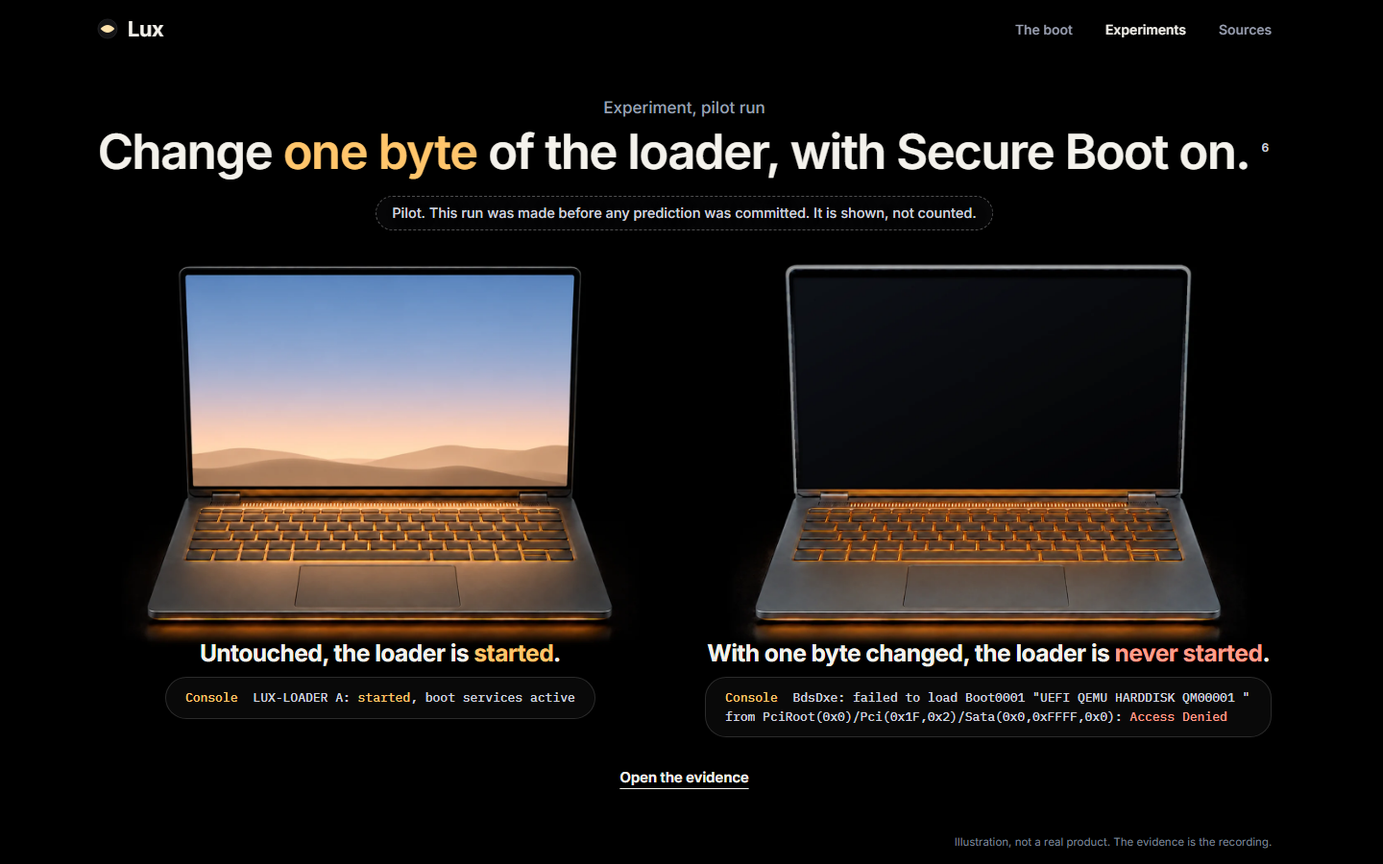
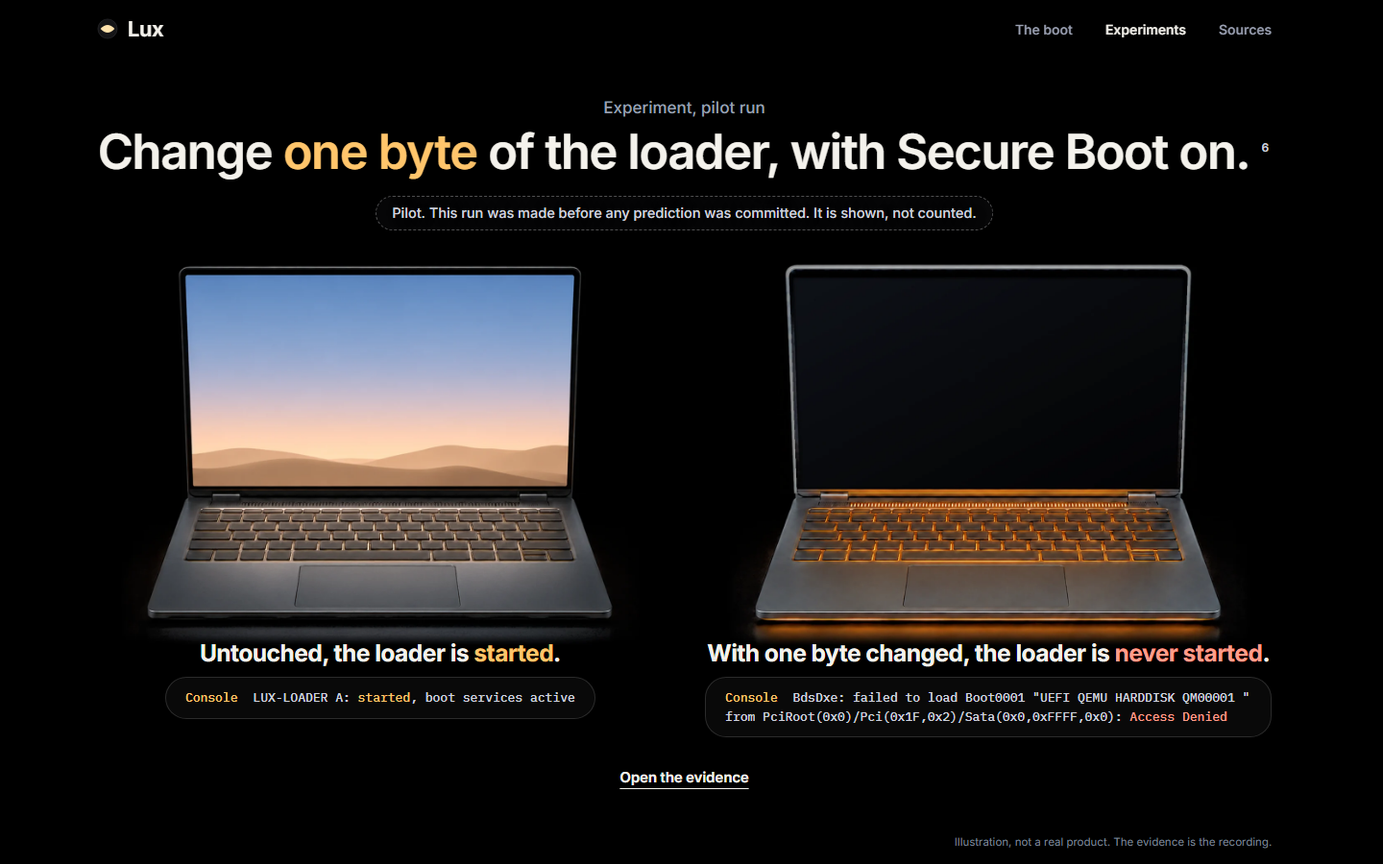
docs: make the counts, the verification record, the asset notes and the screenshots true of the final site, and name the author

Changed region(s): [[0.0938, 0.56, 0.4375, 0.7467]]

diff --git a/docs/VERIFICATION.md b/docs/VERIFICATION.md
@@ -61,12 +61,12 @@ The untested parts of rows 1, 2, 5, 7 and 8 are carried into the limits of the R
 | **Recorder: tests of the committed evidence** (recordings, comparisons, scores, predictions) | The published files, not only the code, must still follow from each other | 48 |
 | **Recorder: integration with real `git`** | The prediction gate sends real git commands; a fake only proves the answers | 3 |
 | **Recorder: integration with a real virtual machine** | Only a real boot shows that a normal run repeats on this machine | 6, skipped unless `LUX_VM_TESTS=1` |
-| **Site: unit tests of the model** (steps, experiment state, addresses, panel keys, the mark) | Complete state per step and the state of an experiment are plain data, testable without drawing anything | 90 |
+| **Site: unit tests of the model** (steps, experiment state, addresses, panel keys, the mark) | Complete state per step and the state of an experiment are plain data, testable without drawing anything | 92 |
 | **Site: the content and the recordings as the site loads them** | Guards the site's own reading of the files | 45 |
 | **Site: pages rendered to HTML, with no browser**, and the stylesheet read as text | Proves that a page shows what the content and the files hold, and no more | 198 |
 | **Browser-level, automated** | None. Motion, layout and focus need a real window; they were checked by a scripted drive and by eye, outside the test suite | 0 |
 
-Recorder total 373 (25 in `test_capture.py`, 48 in `test_check_content.py`, 28 in `test_committed_recordings.py`, 41 in `test_compare_prediction.py`, 65 in `test_counted_set.py`, 32 in `test_eventlog_gate.py`, 6 in `test_integration_vm.py`, 5 in `test_recorded_bytes.py`, 65 in `test_session_runner.py`, 50 in `test_staging.py`, 8 in `test_story_and_repository.py`). The split of the first three rows is by test class: `test_check_content.py` is the second row; `test_committed_recordings.py`, `test_recorded_bytes.py` and the classes `CommittedPredictions` and `TwoEntryNormalRuns` of `test_counted_set.py` are the third. Site total 333 in nine files.
+Recorder total 373 (25 in `test_capture.py`, 48 in `test_check_content.py`, 28 in `test_committed_recordings.py`, 41 in `test_compare_prediction.py`, 65 in `test_counted_set.py`, 32 in `test_eventlog_gate.py`, 6 in `test_integration_vm.py`, 5 in `test_recorded_bytes.py`, 65 in `test_session_runner.py`, 50 in `test_staging.py`, 8 in `test_story_and_repository.py`). The split of the first three rows is by test class: `test_check_content.py` is the second row; `test_committed_recordings.py`, `test_recorded_bytes.py` and the classes `CommittedPredictions` and `TwoEntryNormalRuns` of `test_counted_set.py` are the third. Site total 335 in nine files.
 
 Coverage was not measured as a number. The mutation checks do the work a coverage figure cannot: nine rules were broken on purpose on the final code, seven in the recorder, one in the content check and one in the site, and each break failed at least two tests (`MUTATION_CHECKS.md`).
 
@@ -84,18 +84,18 @@ Run on that commit, on one machine: Windows 11 with Python 3.12.10 and Node.js 2
 | Site build | `npm run build` | type check passed, `built in` under one second, one warning: a chunk larger than 500 kB |
 | Site format | `npm run format:check` | `All matched files use Prettier code style!` |
 
-The run with the virtual machine boots the plain normal run twice and the two-entry normal run once, and took about two minutes for the whole suite. No counted experiment and no pilot was booted for this document. The same commands were run again after the last change to the documents of that day and gave the same summary lines, apart from the times. The counts in this table are those of that commit: five recorder tests, two site tests and three claims were added afterwards.
+The run with the virtual machine boots the plain normal run twice and the two-entry normal run once, and took about two minutes for the whole suite. No counted experiment and no pilot was booted for this document. The same commands were run again after the last change to the documents of that day and gave the same summary lines, apart from the times. The counts in this table are those of that commit: five recorder tests, four site tests and three claims were added afterwards.
 
 ### Last results
 
-Run after the last change to the site and the content (section 9), on the same machine, on Windows only:
+Run after the last change to the site and the content (sections 9 and 10), on the same machine, on Windows only:
 
 | Check | Command | Summary line |
 |---|---|---|
-| Recorder unit tests, Windows | `python -m unittest discover -s recorder/tests -t .` | `Ran 373 tests in 26.215s`, `OK (skipped=6)` |
+| Recorder unit tests, Windows | `python -m unittest discover -s recorder/tests -t .` | `Ran 373 tests in 35.466s`, `OK (skipped=6)` |
 | Content check | `python scripts/check_content.py` | `content check: 5 files, 28 screens, 357 claims, 85 claims uefi-required, 28 claims uefi-platform, 21 claims tcg-unread, 38 claims this-firmware, 170 claims recording, 15 claims general, 14 recordings, 59 glossary entries`, `content check: passed, no problems` |
-| Site tests | `npm test` | `Test Files  9 passed (9)`, `Tests  333 passed (333)` |
-| Site build | `npm run build` | type check passed, one script of 939.01 kB (gzip 186.12 kB), `built in` under one second, one warning: a chunk larger than 500 kB |
+| Site tests | `npm test` | `Test Files  9 passed (9)`, `Tests  335 passed (335)` |
+| Site build | `npm run build` | type check passed, one script of 939.24 kB (gzip 186.22 kB), `built in` under one second, one warning: a chunk larger than 500 kB |
 | Site format | `npm run format:check` | `All matched files use Prettier code style!` |
 
 **Not repeated after that change:** the recorder's unit tests under WSL and the suite with the virtual machine. The five tests added since read committed files only and boot nothing, so the README's expected `Ran 373 tests` for the suite with the virtual machine is the same test discovery with the six booting tests included; it was not run. The fresh-clone runs (`FRESH_CLONE_RUN.md`) and the mutation checks (`MUTATION_CHECKS.md`) were made before that change and were not repeated; each file states the counts of its own commit.
@@ -104,9 +104,10 @@ Run after the last change to the site and the content (section 9), on the same m
 
 | What | How | By eye or by script |
 |---|---|---|
-| All 22 steps of the story, the experiments and sources pages section by section, the strip of seven stops, the still page, and six evidence panels, at 1440 x 900; the steps, the pages and the strip also at 390 x 844 | Screenshots of the running site in a headless Chromium-based browser, read one by one. The phone width was taken through a frame of that width | **By eye**, on screenshots. Three of them are in `docs/images/` |
+| All 22 steps of the story, the experiments and sources pages section by section, the strip of seven stops, the still page, and six evidence panels, at 1440 x 900; the steps, the pages and the strip also at 390 x 844 | Screenshots of the running site in a headless Chromium-based browser, read one by one. The phone width was taken through a frame of that width | **By eye**, on screenshots. Three of them were in `docs/images/` at the time |
 | The same 22 steps, both pages from top to bottom, and the evidence panel of every step, in true windows of 375 x 812 and 430 x 932; the navigation alone at twelve widths from 280 to 761 px; twelve steps at 375 x 667 | A headless Chromium-based browser driven through its debugging port, with the window size set there and no frame. The script also measured each page for content wider than the window and found none | **By eye**, on screenshots, and by measurement. The script and the screenshots are not in the repository |
-| After the last change to the look (section 9): all 22 steps, the first screen of the experiments and sources pages and of the still page at 1440 x 900; steps 0, 12 and 21 in a true window of 390 x 844; the last step at 1180 x 820; the experiment screen of the experiments page | Screenshots of the running site in a headless Chromium-based browser, read one by one; the narrow and the 1180 x 820 windows through the debugging port, which also measured each page for content wider than the window and found none | **By eye**, on screenshots. Three of them replace the pictures in `docs/images/` |
+| After the last change to the look (section 9): all 22 steps, the first screen of the experiments and sources pages and of the still page at 1440 x 900; steps 0, 12 and 21 in a true window of 390 x 844; the last step at 1180 x 820; the experiment screen of the experiments page | Screenshots of the running site in a headless Chromium-based browser, read one by one; the narrow and the 1180 x 820 windows through the debugging port, which also measured each page for content wider than the window and found none | **By eye**, on screenshots. Three of them were the pictures in `docs/images/` until the final set |
+| After the final changes (section 10): all 22 steps, the first screen of the experiments page, its two-run screen and its counted set, the first screen of the sources page and its glossary, the first screen of the still page, the strip of seven stops, and the evidence panels of step 12 and of the two-run screen, at 1440 x 900; the opening and the last step also at 375 x 812, 390 x 844, 430 x 932, 1280 x 720 and 1024 x 768 | Screenshots of the running site in a headless Chromium-based browser at a device pixel ratio of 1, read one by one; the scrolled sections and the other window sizes through the debugging port, which measured the opening and the last step for content wider than the window and found none | **By eye**, on screenshots. Three of them are the pictures in `docs/images/` |
 | Brightness of the machine before power | Mean luminance of regions of the screenshots and of the pictures, printed by `site/tools/make_assets.py` and recorded in `site/ASSETS.md` | By script, after a judgement by eye that the first version was too dark |
 | Scrolling: Space and Shift with Space, Page Down and Page Up through all 22 steps, a jump to `#step-12`, the strip after the last step, reduced motion giving the still page | The running site driven in real time through the browser's debugging port | **By script only** |
 | The evidence panel: Enter and Space open it, Tab stays inside it from a control and from the claims heading, Escape closes it, focus returns to the opener, the page does not move | The same scripted drive | **By script only** |
@@ -114,8 +115,8 @@ Run after the last change to the site and the content (section 9), on the same m
 | The way on to the earlier site | The running site in a browser: the last step holds a link with the address `https://lejie710.github.io/nox/` | By script. The link was not followed |
 | The sentence under the two numbers, and the note on a prediction's date | The running site at 1024 x 768 and 375 x 812: the positions of the parts of the first experiments screen were measured, and one phone screenshot was read | By script and by eye. On the phone size the first screen is now 36 px taller than the window |
 | Keyboard and focus on the experiments and sources pages (focus moving to the heading on a change of page, the glossary filter) | Tested as rendered HTML only | **Not driven in a real browser** |
-| The story scrolled by a person's hand on a real screen in a lit room | | **Not confirmed in this document** |
-| Firefox, Safari, a physical phone, a phone held sideways, a window under 600 px tall, a screen reader | | **Not checked** |
+| The story scrolled by a person's hand on a real screen | The author scrolled the site in his own browser on the day of the final changes, and those changes answer what he saw | **By the author only.** No second person, and nothing about it was measured |
+| Firefox, Safari, a physical phone, a phone held sideways, a window under 600 px tall, a screen with a device pixel ratio above 1, a screen reader | | **Not checked** |
 | The paraphrases of UEFI 2.11 | Each read against the section and PDF page it cites | By reading; no script can check it |
 | The link-preview tags (section 7) | The built `dist/index.html` read, and one build made with a placeholder address | By script. No preview service was asked |
 
@@ -153,6 +154,7 @@ These were found by review, by a test or by driving the site. None was planted. 
 | 19 | The two headline numbers stood on the experiments page with their caveat one press away | Review of the page against the README | The sentence that the rows are not independent stands directly under the numbers, from the content | A16 |
 | 20 | The larger laptop made for the last screen was also drawn on the experiment screen and the screen before the last, where the light under its keys is not turned down. On the experiment screen its lid sat 11 px under the pilot label and its base ran 9 px into a two-line evidence line. In a window of about 1180 x 820 the larger laptop also touched a two-line evidence line on the last screen | Review of screenshots | The laptop is enlarged on the last screen only, and only in a window at least three wide to two high and 800 px high (commit `2ebfe4b`) | No test: a judgement of the eye. Screenshots of steps 15, 20 and 21 at 1440 x 900 and of step 21 at 1180 x 820 were read after the fix |
 | 21 | When stop 5 began to state the stored boot order from the raw log (0000 first), the limit "why option 0000 was not started" was dropped, although the log still does not show why the console names 0001. The same stop said "the recording shows" bytes that only the raw log holds | Review of the facts against the raw log | The limit is stated again in the form the log supports, and the sentence names the raw event log (commit `cf1fc46`) | Read by hand. `test_recorded_bytes.py` guards the byte values, not the wording of a limit |
+| 22 | A page opened at `/#overview`, below the story, showed the opening in the last rows of the pinned stage above the strip: the title cut off under the navigation and across the name beside the mark. No marker lies on the window's middle line there, so the step kept its first value | Reading the final screenshots | On the first report of the markers, when none is on the middle line, the step is the last one whose marker starts above it | `model/scene.test.ts`, "stepPassed" (two tests). The landing was then driven in a headless browser: `/#overview` shows the last step, `/#step-12` step 12, `/` the opening |
 
 ### Open, known, not fixed
 
@@ -179,12 +181,13 @@ These were found by review, by a test or by driving the site. None was planted. 
 - **The hosted workflow.** `.github/workflows/check.yml` has never run on a hosted runner. It uses the official checkout, Python and Node.js setup actions by major version, and every command in it passes locally on Windows and in WSL. A hosted runner may still differ: another Node.js or npm patch version, `npm ci` on another system than the one it succeeded on, another git version for the three tests that use real git. Whether the three setup actions resolve at the versions the file names was not checked, because nothing was fetched.
 - **Publication.** Nothing is published. There is no public address, so no deployed page has been opened, and the previews of a pasted link have not been seen (section 7).
 - **Any second machine.** The recordings were reproduced only on the machine that made them, in every run from a new clone as well. The recorder refuses another firmware package; what another QEMU version does was not tried.
-- **Any browser but one**, any real phone, and a screen reader (section 4).
+- **Any browser but one**, any real phone, a screen with a device pixel ratio above 1, and a screen reader (section 4).
+- **Motion.** It was judged by the timing a script read and by the author's own scrolling. Frame rate was not measured, and no second person has scrolled the story (section 10).
 - **Repeatability of a changed run.** Each counted experiment was booted once, by rule.
 - **What a Trusted Computing Group document or the Platform Initialization specification requires.** Neither was read. No statement on the site or in the results claims a requirement from either.
 - **That no counted configuration was ever booted before its prediction.** The history and one audit of the work directory say so; no mechanism proves it, and the audit's script and output are not in the repository (`RESULTS.md`, "Checked a second time", marks the rows a reader cannot repeat).
 
-**Assessment.** The evidence chain from a boot to a number on the page is implemented and tested end to end without a virtual machine, and the one link that needs a real boot, that a normal run repeats, was run again and holds. The result is honest only together with its caveats: four counted experiments, one run each, rows that are not independent, one firmware build in a virtual machine with a software TPM, and two documents unread. With those stated beside the numbers, as the README and the experiments page now do, the project is ready to be shown as a private repository. Before it is made public, three things remain: the hosted workflow must run green once, a licence must be chosen, and a person should scroll the story once by hand in an ordinary browser.
+**Assessment.** The evidence chain from a boot to a number on the page is implemented and tested end to end without a virtual machine, and the one link that needs a real boot, that a normal run repeats, was run again and holds. The result is honest only together with its caveats: four counted experiments, one run each, rows that are not independent, one firmware build in a virtual machine with a software TPM, and two documents unread. With those stated beside the numbers, as the README and the experiments page now do, the project is ready to be shown as a private repository. Before it is made public, two things remain: the hosted workflow must run green once, and a licence must be chosen. The author has scrolled the story by hand; nobody else has.
 
 ## 7. Link-preview metadata
 
@@ -245,7 +248,7 @@ Made on 2026-11-15 in nine commits, `5cf4d0a` to `cf1fc46`, after every run and 
 
 **Checked.** The checks of section 3, "Last results". The site's test that nothing but `transform` and `opacity` moves still passes, and no existing test was edited. The screenshots of section 4, first row. During the change, steps 0, 2, 6, 12, 15, 19, 20 and 21 were also read at 1280 x 720 after each commit; in a review after it, the last step at 1366 x 768 and 1920 x 1080.
 
-**Not verified, or known and left.**
+**Not verified, or known and left.** Two points of this list were overtaken by section 10: the shade is gone, and the author has scrolled the story.
 
 - **Motion was not seen by eye.** That the statement is readable sooner (about 0.6 s after a step change, before about 1.15 s) was measured by reading the computed opacity at sampled times in a headless browser. Frame rate was not measured. A person has still not scrolled the story by hand (section 4).
 - **For about 0.4 s after a step change** the evidence line and the control still seen are those of the step being left, and that control does not respond; the control of the new step is in place under it. Keyboard reach and the return of focus were not driven again in a browser; the panel's code and its tests are unchanged.
@@ -255,3 +258,26 @@ Made on 2026-11-15 in nine commits, `5cf4d0a` to `cf1fc46`, after every run and 
 - **The section titles of the experiments and sources pages and the title of the evidence panel** keep their heavier weight; only the statements changed.
 - **One claim at stop 5** names the first four bytes of a boot option "attributes" and its text "description" under the basis "recording". The numbers are in the bytes; the two names are a reading of the bytes against the UEFI layout, for which no citation was added. The sentence says "this page calls".
 - **The suite with the virtual machine, the unit tests under WSL, the fresh-clone runs and the mutation checks were not repeated** after this change (section 3).
+
+## 10. The final changes
+
+Made on 2026-11-15 after section 9, in the commits `99c9865`, `40137be` and `a337644` and the commit that added this section. No experiment was run again, and no recording, prediction or score was touched.
+
+| Change | Where |
+|---|---|
+| The last screen fades in a second generated picture of the lit laptop, in which the light under the keys is turned down. The shade that section 9 describes was removed from the stylesheet. The picture a link is previewed with was made again from the same second picture | `site/src/assets/laptop-awake.webp`, `site/public/og.jpg`, `site/tools/make_assets.py`, `site/src/styles/lux.css`, `site/ASSETS.md` |
+| The opening's invitation to scroll names the author: "An explainer of the UEFI boot by Le Jie Tan, from public specifications and one recorded boot", the same place and form as on the earlier site | `content/story-a.json` |
+| A page opened below the story shows the last step in the stage's last rows (defect 22) | `site/src/stage/useStepScroll.ts`, `stepPassed` in `site/src/model/scene.ts`, two tests |
+
+**Checked.** The checks of section 3, "Last results", all run after the last of these changes. The screenshots of section 4, the row "After the final changes": every one was opened and read, and none showed overlap, clipped text or a line past the window's edge. The three pictures in `docs/images/` are from that set.
+
+**Still unverified.**
+
+- **Motion.** Judged by the timing a script read (section 9) and by the author's own scrolling. Frame rate was not measured, the fade of the new picture on the last screen was seen only as its end state on a screenshot, and no second person has scrolled the story.
+- **Other browsers.** One Chromium-based browser only. Firefox and Safari were not opened.
+- **A physical phone.** The narrow sizes are windows of a desktop browser, not a device, and none was held sideways.
+- **A screen reader.** None was run. The spoken status line and the labels are tested as rendered HTML only.
+- **A device pixel ratio above 1.** Every screenshot was taken at a ratio of 1, so how the pictures and the hairlines look on a dense screen was not seen.
+- **The hosted check workflow.** `.github/workflows/check.yml` has never run (section 6).
+- **Not repeated after these changes:** the evidence panel's keys and focus in a browser, the pages and panels from top to bottom at the narrow sizes (only the opening and the last step were taken again there), the recorder's unit tests under WSL, the suite with the virtual machine, the fresh-clone runs and the mutation checks.
+- **The brightness of the new picture of the lit laptop** was not written into `site/ASSETS.md`; its table still holds the values of the first picture.

diff --git a/site/ASSETS.md b/site/ASSETS.md
@@ -4,18 +4,18 @@ Every picture on the site is an illustration of a fictional laptop and a fiction
 
 ## How each file was made
 
-| File                            | What it is                                                             | How it was made                                                                                                                                                                                                                        |
-| ------------------------------- | ---------------------------------------------------------------------- | -------------------------------------------------------------------------------------------------------------------------------------------------------------------------------------------------------------------------------------- |
-| `src/assets/laptop-dark.webp`   | The laptop before power, 1280 x 960                                    | A generated picture (2400 x 1500), lifted (see below), cropped close to the laptop, edges faded to black, resized and saved as WebP by `tools/make_assets.py`                                                                          |
-| `src/assets/laptop-inside.webp` | The same laptop with its inside awake and its screen black, 1280 x 960 | A generated picture of the same laptop from the same view, lifted (see below), cropped, faded and saved alike, so that one picture can fade into the next                                                                              |
-| `src/assets/laptop-awake.webp`  | The same laptop with its screen lit by a dawn sky, 1280 x 960          | From a second generated picture of the same laptop in which the light under the keys is turned down, with only its body under the hinge lifted. The sky on its screen is part of the generated picture and is not changed              |
-| `src/assets/board-dark.webp`    | The board before power, 1920 x 1200                                    | A generated picture (2400 x 1500), lifted (see below), resized and saved as WebP by the same script                                                                                                                                    |
-| `src/assets/board-awake.webp`   | The same board with every part lit, 1920 x 1200                        | A generated picture of the same board from the same view, so that parts line up with the dark one; resized and saved as WebP by the same script                                                                                        |
-| `src/assets/masks/<part>.webp`  | Eight soft masks, 600 x 375, one per part of the board                 | Composed in code: a polygon per part, drawn and blurred by the same script. The shape is in the alpha channel                                                                                                                          |
-| `src/assets/masks/whole.webp`   | One soft mask of the whole board                                       | Composed in code the same way, with a wider blur                                                                                                                                                                                       |
-| `src/assets/parts.json`         | Where each part lies on the board, as fractions of the picture         | Composed in code: the bounds of each part's polygon, written by the same script. A narrow window uses it to keep the parts a step is about in view                                                                                     |
-| `public/og.jpg`                 | The picture a link to the site is previewed with, 1200 x 630           | Composed in code by the same script from two of the generated pictures: the laptop before power (lifted) on the left, the same laptop with its screen lit on the right, the mark drawn from its geometry, and the name. No other words |
-| `public/favicon.svg`            | The mark                                                               | Drawn by hand as SVG from the geometry in `src/model/mark.ts`; a test keeps the two equal                                                                                                                                              |
+| File                            | What it is                                                             | How it was made                                                                                                                                                                                                                                                              |
+| ------------------------------- | ---------------------------------------------------------------------- | ---------------------------------------------------------------------------------------------------------------------------------------------------------------------------------------------------------------------------------------------------------------------------- |
+| `src/assets/laptop-dark.webp`   | The laptop before power, 1280 x 960                                    | A generated picture (2400 x 1500), lifted (see below), cropped close to the laptop, edges faded to black, resized and saved as WebP by `tools/make_assets.py`                                                                                                                |
+| `src/assets/laptop-inside.webp` | The same laptop with its inside awake and its screen black, 1280 x 960 | A generated picture of the same laptop from the same view, lifted (see below), cropped, faded and saved alike, so that one picture can fade into the next                                                                                                                    |
+| `src/assets/laptop-awake.webp`  | The same laptop with its screen lit by a dawn sky, 1280 x 960          | From a second generated picture of the same laptop in which the light under the keys is turned down, with only its body under the hinge lifted. The sky on its screen is part of the generated picture and is not changed                                                    |
+| `src/assets/board-dark.webp`    | The board before power, 1920 x 1200                                    | A generated picture (2400 x 1500), lifted (see below), resized and saved as WebP by the same script                                                                                                                                                                          |
+| `src/assets/board-awake.webp`   | The same board with every part lit, 1920 x 1200                        | A generated picture of the same board from the same view, so that parts line up with the dark one; resized and saved as WebP by the same script                                                                                                                              |
+| `src/assets/masks/<part>.webp`  | Eight soft masks, 600 x 375, one per part of the board                 | Composed in code: a polygon per part, drawn and blurred by the same script. The shape is in the alpha channel                                                                                                                                                                |
+| `src/assets/masks/whole.webp`   | One soft mask of the whole board                                       | Composed in code the same way, with a wider blur                                                                                                                                                                                                                             |
+| `src/assets/parts.json`         | Where each part lies on the board, as fractions of the picture         | Composed in code: the bounds of each part's polygon, written by the same script. A narrow window uses it to keep the parts a step is about in view                                                                                                                           |
+| `public/og.jpg`                 | The picture a link to the site is previewed with, 1200 x 630           | Composed in code by the same script from two of the generated pictures: the laptop before power (lifted) on the left, the same laptop with its screen lit on the right (the second picture of it, see above), the mark drawn from its geometry, and the name. No other words |
+| `public/favicon.svg`            | The mark                                                               | Drawn by hand as SVG from the geometry in `src/model/mark.ts`; a test keeps the two equal                                                                                                                                                                                    |
 
 The full-size source pictures are not in this repository. With them in a folder, the shipped files are rebuilt by:
 
@@ -42,6 +42,8 @@ The script prints the mean brightness of each region of each source picture, on 
 | Laptop with screen lit   | 103.6 to 110.7 | 69.8 to 96.2 | not changed      | 0.09, unchanged   |
 | Board before power       | 10.1 to 26.9   |              |                  | 0.06, unchanged   |
 
+The row for the laptop with its screen lit was printed for the first picture of it. The shipped file is now made from the second picture, in which the light under the keys is turned down, and the values of that picture were not written down here.
+
 The lit board is not changed.
 
 ## How a stop's picture is put together
@@ -52,7 +54,7 @@ Which parts are lit at a stop is not decided here. It is read from the `picture`
 
 The strip after the story draws the same board seven times, small, each with the parts lit that its stop ends with. A small picture of the whole board looks alike at every stop, so each is drawn close on the parts its stop is about, and the last, where every part is lit, shows the whole board. The two laptops of the experiments page are the pictures with the screen lit and with the inside awake, side by side.
 
-At the pilot screen and at the end of the story the board gives way to the laptop with its inside awake, and on the last screen the picture with the lit screen fades in over it. The light under the keys is part of both pictures, so on the last screen the stylesheet lays a shade over the lower part of the picture, from the hinge down, as the screen lights; no picture file was changed for it. The three laptop pictures are cut alike, so nothing moves when one fades into the next.
+At the pilot screen and at the end of the story the board gives way to the laptop with its inside awake, and on the last screen the picture with the lit screen fades in over it. The picture with the lit screen is made from a second generated picture of the same laptop, in which the light under the keys is turned down, so that light goes down by itself as the picture fades in and the lit screen is the brightest thing in view. The stylesheet lays no shade over it. The three laptop pictures are cut alike, so nothing moves when one fades into the next.
 
 ## Fonts
 

diff --git a/README.md b/README.md
@@ -2,7 +2,7 @@
 
 _What your laptop does before it wakes: one boot of open-source UEFI firmware, told from reset to the moment firmware hands the machine over and recorded from the firmware's first measurement on, and what happens when one thing in that chain is changed._
 
-![The opening screen of the site: a laptop before power, dark, with the words "Lux. Before light. What your laptop does before it wakes." and an invitation to scroll.](docs/images/opening.png)
+![The opening screen of the site: a laptop before power, dark, with the words "Lux. Before light. What your laptop does before it wakes." and an invitation to scroll that names the author: "An explainer of the UEFI boot by Le Jie Tan, from public specifications and one recorded boot".](docs/images/opening.png)
 
 ## The question
 
@@ -66,7 +66,7 @@ What this project does not show, stated so that nobody has to find out.
 
 Not tested, and carried here from `docs/VERIFICATION.md`:
 
-- **No automated test opens a browser.** The site's tests render pages to HTML. Motion, layout and focus were checked by eye and by a scripted drive in one Chromium-based browser at 1440 x 900, 430 x 932, 390 x 844 and 375 x 812. Firefox, Safari, a physical phone, a phone held sideways, a window under 600 px tall and a screen reader have not been tested.
+- **No automated test opens a browser.** The site's tests render pages to HTML. Motion, layout and focus were checked by eye and by a scripted drive in one Chromium-based browser at 1440 x 900, 430 x 932, 390 x 844 and 375 x 812. Firefox, Safari, a physical phone, a phone held sideways, a window under 600 px tall, a screen with a device pixel ratio above 1 and a screen reader have not been tested. Motion was judged by the timing a script read and by the author's own scrolling, not by a second person.
 - **The hosted workflow has never run.** `.github/workflows/check.yml` was written for a hosted runner and has only been reasoned about; every command in it passes locally.
 - **There is no live demo.** The site has been run locally only, and link previews have not been checked against a public address.
 - **Process cleanup when the virtual machine is killed from outside** is covered by the integration test and a script, not by a unit test.
@@ -86,7 +86,7 @@ Not tested, and carried here from `docs/VERIFICATION.md`:
 
 ## What the site shows
 
-![Stop 6 of 7, "Load and verify": the statement "Before the loader runs, firmware checks who signed it", a lit circuit board, one line from the recording (PCR 7, EV_EFI_VARIABLE_AUTHORITY, "variable db, 851 data bytes") and the control "Open the evidence".](docs/images/stop-6.png)
+![Stop 6 of 7, "Load and verify": the statement "Before the loader runs, firmware checks who signed it", a circuit board whose lit parts rest at half their light, one line from the recording (PCR 7, EV_EFI_VARIABLE_AUTHORITY, "variable db, 851 data bytes") and the control "Open the evidence".](docs/images/stop-6.png)
 
 - **The story**: the opening, the way inside the machine, and seven stops from power and reset to the handoff, in 22 steps. A screen holds one statement, one line copied from a recording, a citation marker and "Open the evidence". Behind that control are the console lines, the log records with their digests, the register values, every claim with its basis label and source, the terms, and what the recording does not show.
 - **The experiments**: the two numbers as the score files have them, with what they do not show directly under them; the normal run and a changed run side by side; a card per pilot and per counted experiment; and what the specification leaves open.
@@ -305,7 +305,7 @@ python3 -m unittest discover -s recorder/tests -t .
 ```
 
 ```
-Ran 373 tests in 26.215s
+Ran 373 tests in 35.466s
 
 OK (skipped=6)
 ```
@@ -339,7 +339,7 @@ npm run format:check
 
 ```
  Test Files  9 passed (9)
-      Tests  333 passed (333)
+      Tests  335 passed (335)
 ```
 
 `npm run build` prints a line that contains `built in`, and a warning that one chunk is larger than 500 kB. `npm run format:check` ends with `All matched files use Prettier code style!`.
@@ -407,7 +407,7 @@ Names of specifications, standards bodies and software projects belong to their 
 
 ## Status and licence
 
-Not published. The intended repository name is `lux`, under the GitHub account `lejie710`; there is no live demo, and the site runs locally only. Its last screen links on to the earlier site, Nox, at https://lejie710.github.io/nox/, where the story of the running machine continues.
+Made by Le Jie Tan, who is named on the site's opening screen in the same place and form as on the earlier site. Not published. The intended repository name is `lux`, under the GitHub account `lejie710`; there is no live demo, and the site runs locally only. Its last screen links on to the earlier site, Nox, at https://lejie710.github.io/nox/, where the story of the running machine continues.
 
 Licence: the software is under the MIT License (see [LICENSE](LICENSE)). That licence covers the code only: the explanatory text shown on the site and the images are not part of the grant. The images are generated illustrations, not photographs of real products or places. Text and images are copyright 2026 Le Jie Tan, all rights reserved. Quote them with a link, but do not republish them. The recordings are output of the firmware, virtual machine and TPM programs the recorder drives; those are separate projects under their own licences, listed above.
 

diff --git a/docs/MUTATION_CHECKS.md b/docs/MUTATION_CHECKS.md
@@ -2,7 +2,7 @@
 
 A test suite that passes proves little unless it can also fail. For nine rules the project's question depends on, the rule was broken on purpose, the full suite was run, and the rule was restored. Each time at least one test had to fail. All nine did.
 
-Checks 1 to 7 break rules of the recorder, check 8 a rule of the content check, and check 9 a rule of the site. All nine were made on the final code. For checks 1 to 8 the recorder's suite before and after each was `Ran 368 tests`, `OK (skipped=6)`; for check 9 the site's suite was `Tests  329 passed (329)`. The skipped tests are the ones that boot the virtual machine; they were not part of these checks. Tests were added after these checks (five in the recorder, giving 373, and in the site, giving 333); none of the nine rules was changed, and the checks were not repeated. Checks 1 to 7 had been made before on earlier revisions (suites of 231 and 356 tests), where each also failed; the lists below are from the repeat on the final code.
+Checks 1 to 7 break rules of the recorder, check 8 a rule of the content check, and check 9 a rule of the site. All nine were made on the final code. For checks 1 to 8 the recorder's suite before and after each was `Ran 368 tests`, `OK (skipped=6)`; for check 9 the site's suite was `Tests  329 passed (329)`. The skipped tests are the ones that boot the virtual machine; they were not part of these checks. Tests were added after these checks (five in the recorder, giving 373, and in the site, giving 335); none of the nine rules was changed, and the checks were not repeated. Checks 1 to 7 had been made before on earlier revisions (suites of 231 and 356 tests), where each also failed; the lists below are from the repeat on the final code.
 
 ## 1. The extend order in the replay
 

diff --git a/docs/FRESH_CLONE_RUN.md b/docs/FRESH_CLONE_RUN.md
@@ -2,7 +2,7 @@
 
 The repository was cloned into a new, empty folder outside the project at commit `b3222a5`, and `README.md` was followed in its own order, typing what it says. This file records what was typed, what came back, and every place where the README was wrong, incomplete, ambiguous or assumed something it does not state. Nothing in the repository was changed to make a step pass. Sections 1 to 5 are that run as it was. Section 6 records what was corrected in the README afterwards and which steps were then typed again in a second new clone. Section 7 records a third new clone, at commit `2d2c5ba`, in which `npm ci` was run and the site's commands and the checks that boot nothing were typed in the clone itself.
 
-The test counts below (368 recorder tests, 329 and 331 site tests, 354 claims) are those of the commit each run was made at. Five recorder tests, two site tests and three claims were added later the same day; the runs were not repeated after that, and `VERIFICATION.md` section 3 gives the counts of the present code.
+The test counts below (368 recorder tests, 329 and 331 site tests, 354 claims) are those of the commit each run was made at. Five recorder tests, four site tests and three claims were added later the same day; the runs were not repeated after that, and `VERIFICATION.md` section 3 gives the counts of the present code.
 
 All three runs were made on 2026-11-15. No counted experiment was booted. The first and the third clone and both work directories were deleted afterwards. The second clone is a folder outside the repository that nothing depends on.
 

diff --git a/docs/ENGINEERING.md b/docs/ENGINEERING.md
@@ -292,7 +292,7 @@ Superseded in the recorder, as [`DESIGN.md`](DESIGN.md) section 11 records row b
 *Chosen.* What has been run, compared, predicted and scored is worked out at build time from `recordings/`, `predictions/` and the score files (`site/src/model/experiments.ts`): not run, pilot, recorded, or scored. The headline score is the sum over the score files, and with no score file the page claims no score.
 *Weighed.* Writing the status and the numbers into the content (simpler, and the content check could verify them, but two places would have to change together).
 *Consequences.* The page cannot show a score that is not on file, and tests cover the page with nothing on file, with a pilot and with a score.
-*Cost.* Every recording is part of the site's script, which is about 936 kB before compression and grows with each recording. The content still carries a few status sentences beside the files' state, and those must be kept true by hand.
+*Cost.* Every recording is part of the site's script, which is about 939 kB before compression and grows with each recording. The content still carries a few status sentences beside the files' state, and those must be kept true by hand.
 
 ## 6. Operating guidance
 
